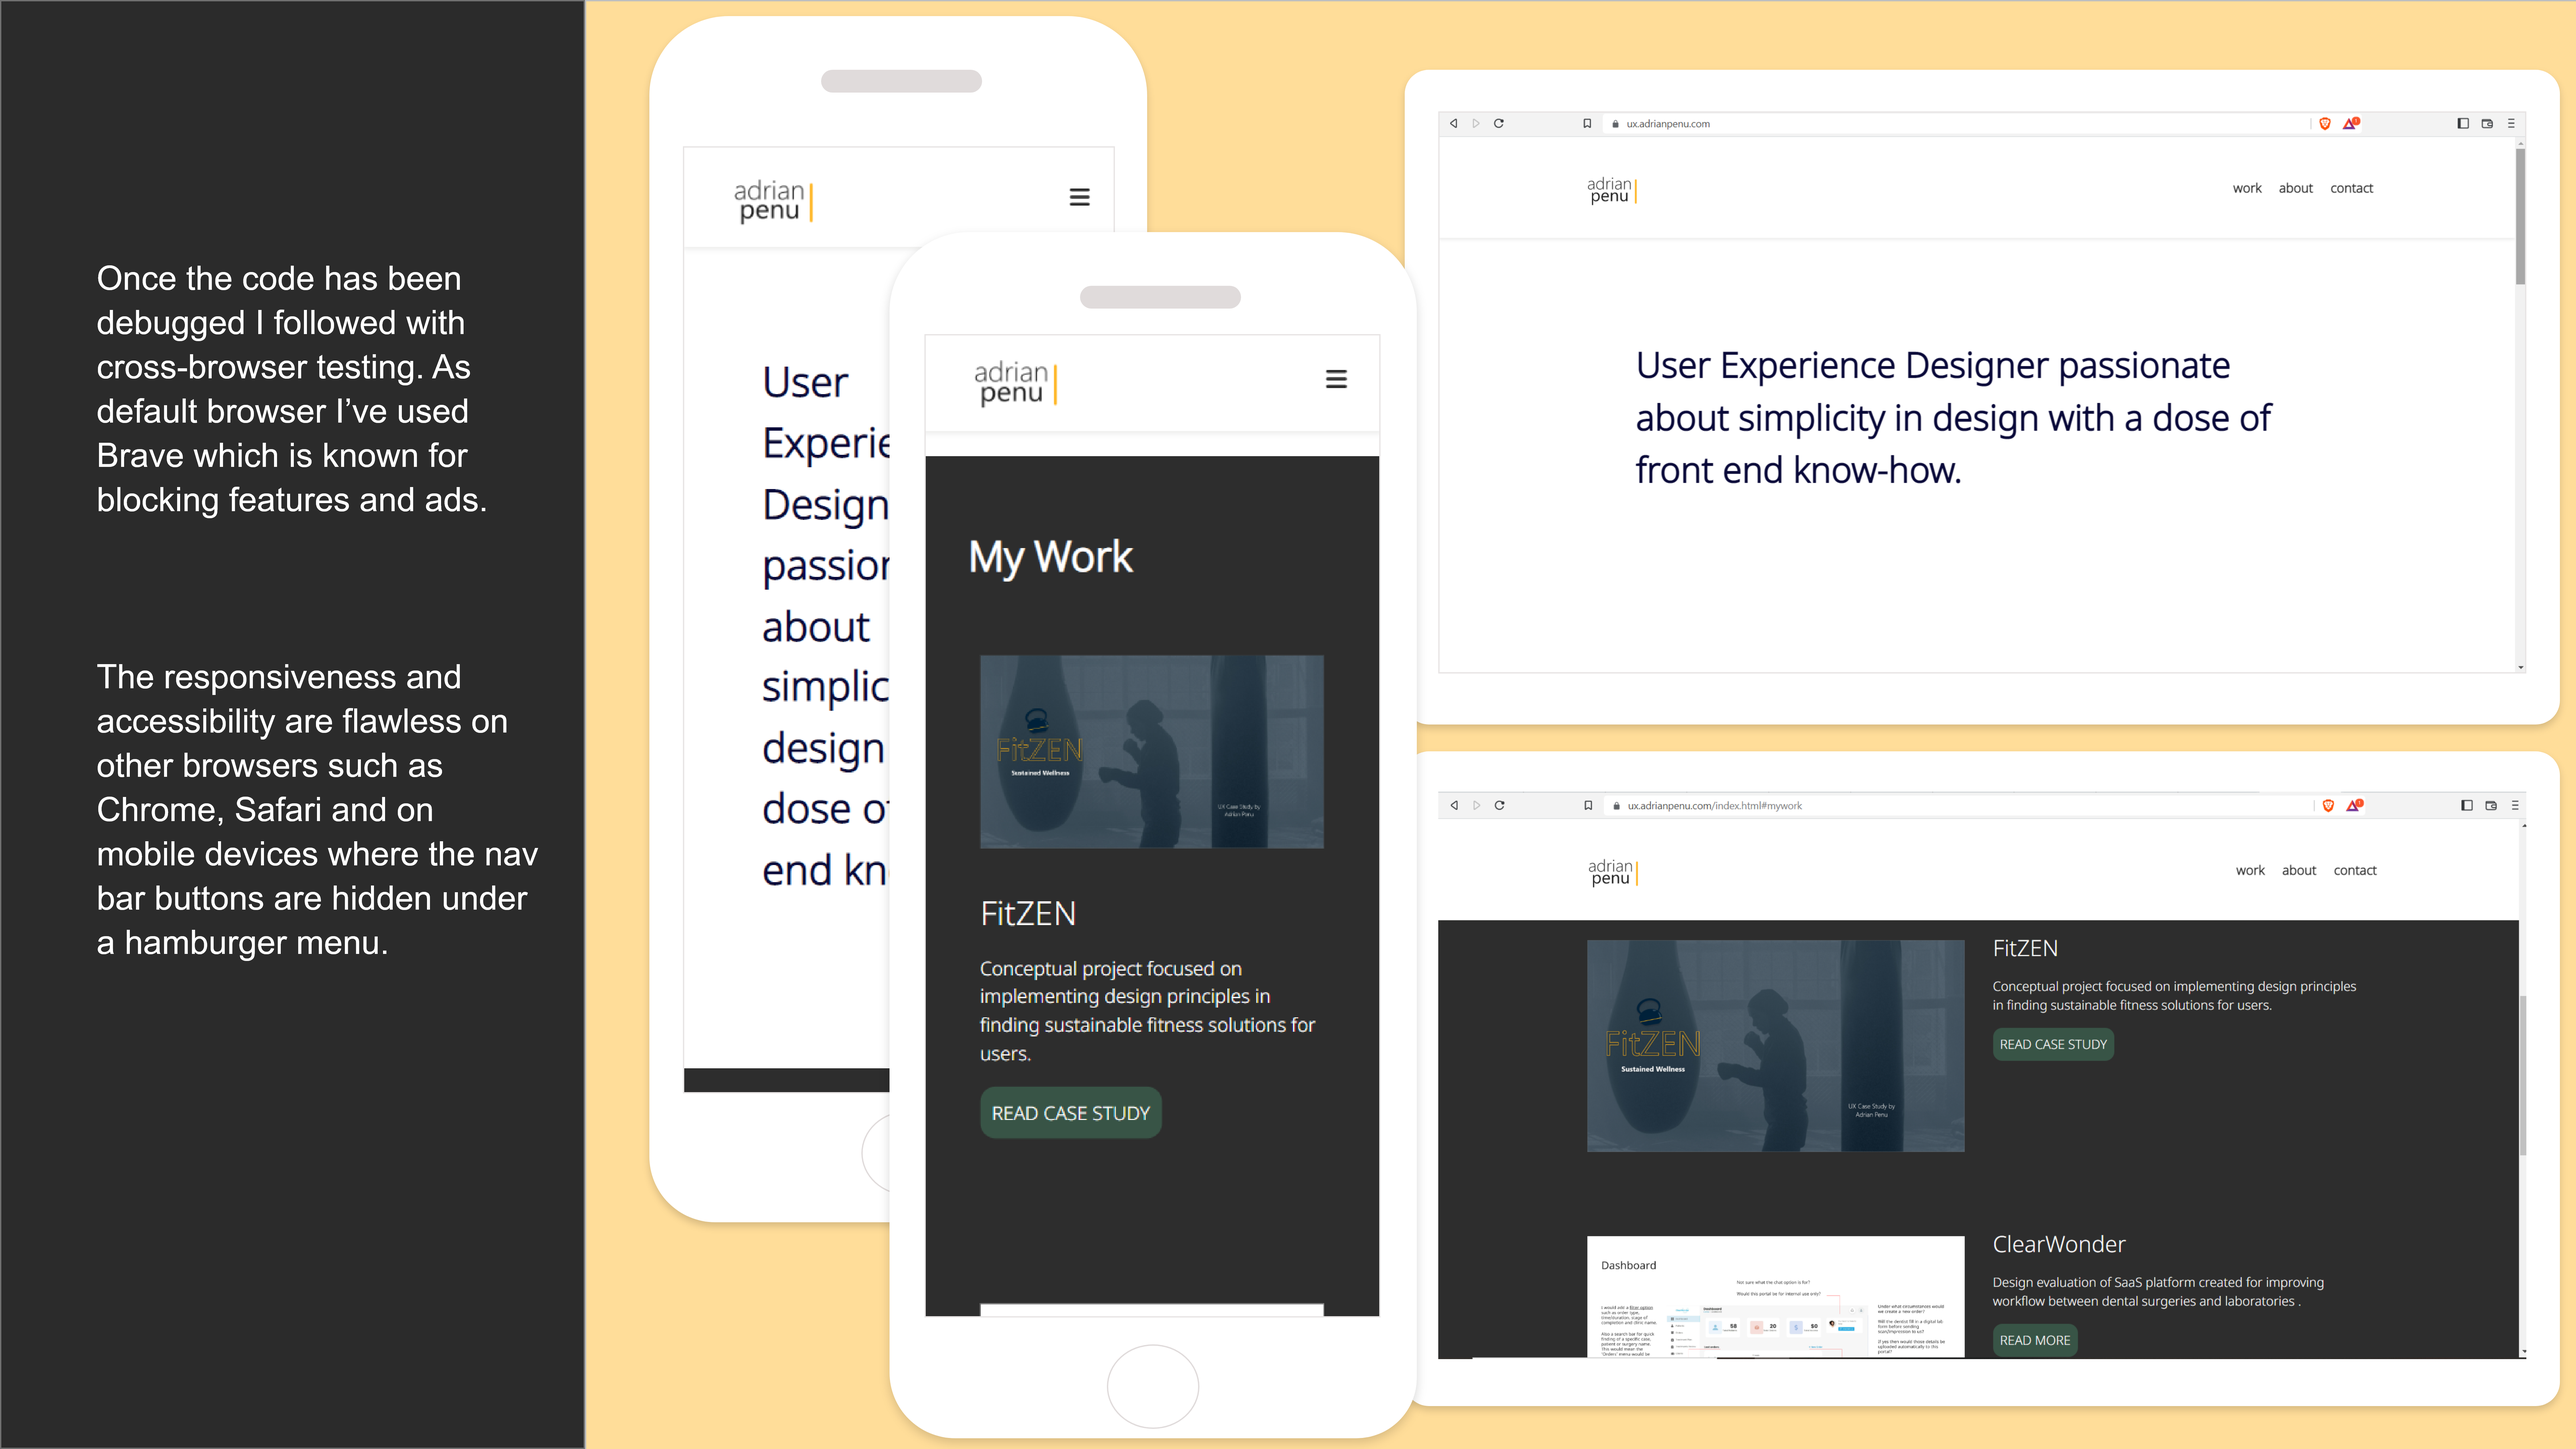
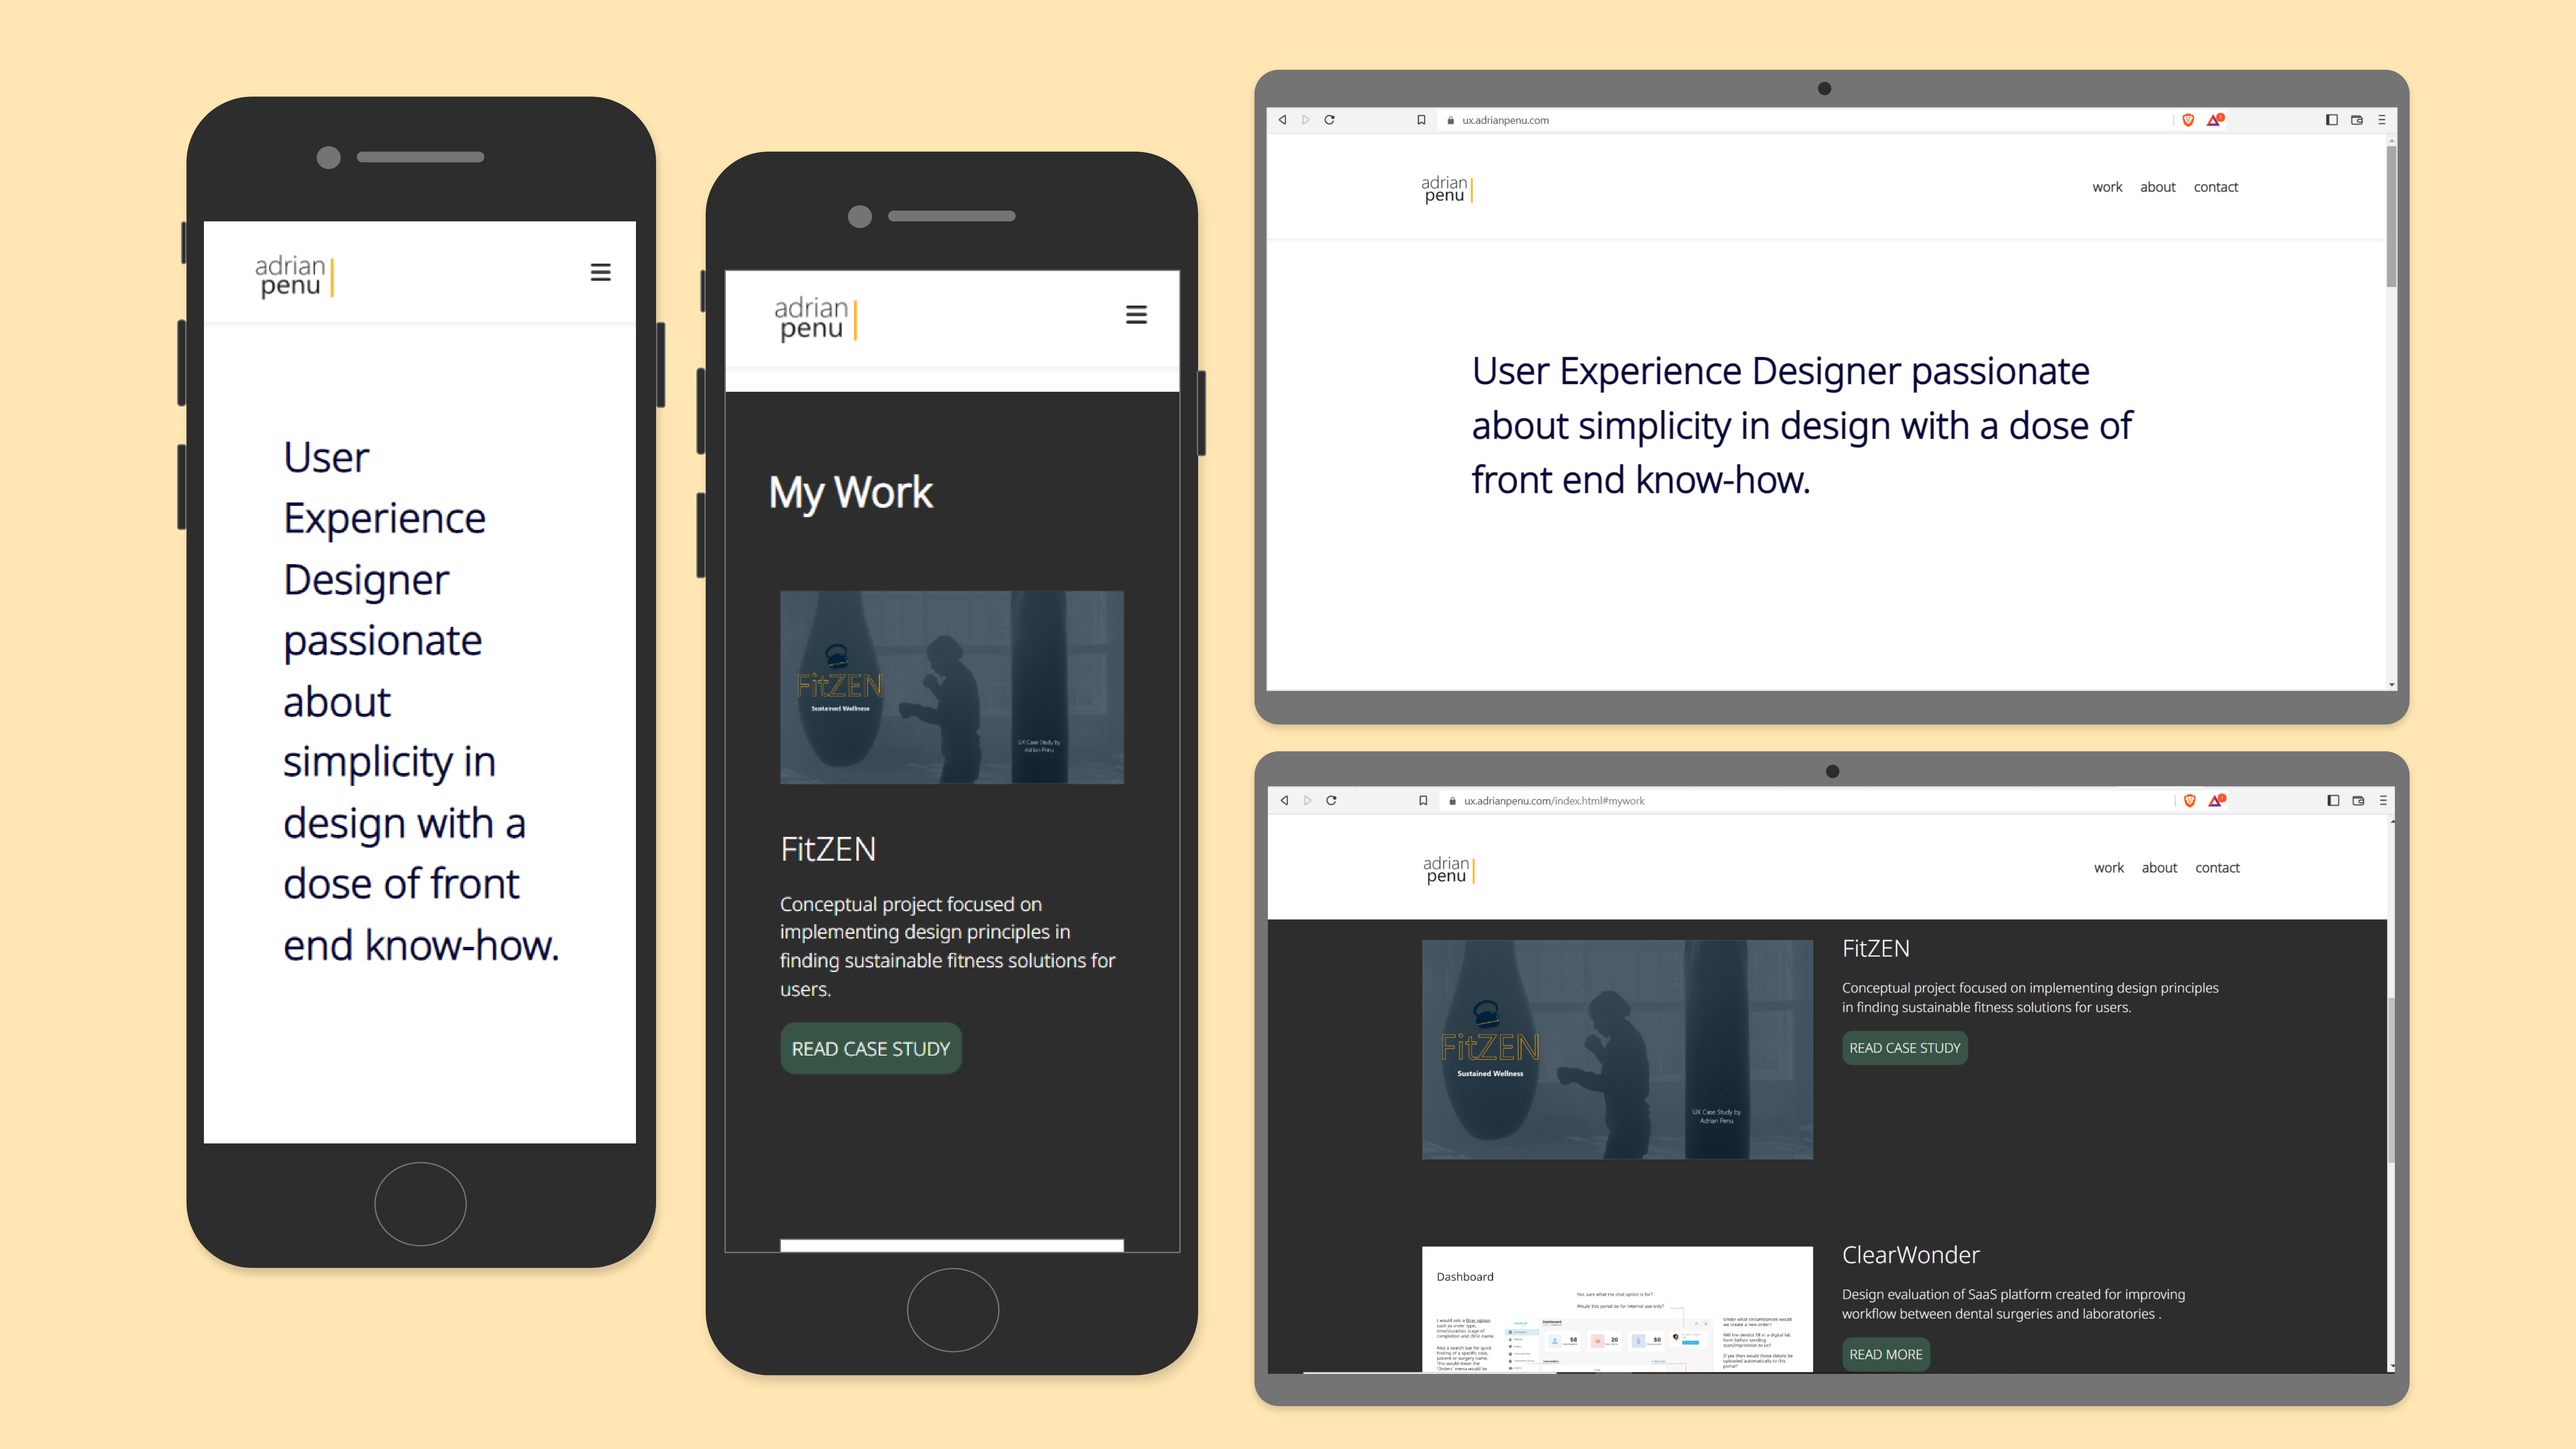
change to font

diff --git a/portfolio_site.html b/portfolio_site.html
@@ -35,10 +35,10 @@
   <main>
     <div id="fitzen">
       <div class="container">
-        <h1> Portfolio Website </h1><br/>
+        <h1> Portfolio Website </h1><br />
         <h4> As part of my qualification as a UX Designer I've chosen to specialise in web development.</h4>
 
-          <h4>This is the story of how I've applied front-end principles in building my UX portfolio site.</h4>
+        <h4>This is the story of how I've applied front-end principles in building my UX portfolio site.</h4>
       </div>
       <picture>
         <source scrset="img\ux_ap_img\ux_ap_desktop.png" media="(max-width:767px)">
@@ -79,9 +79,9 @@
           <p>Gaining competency in front-end development and creating a website that will help me in my career.
           </p>
         </div>
-        <br/>
-        <br/>
-        <br/>
+        <br />
+        <br />
+        <br />
 
         <h3>RESEARCH </h3>
         <h2>Original like everyone else</h2>
@@ -95,14 +95,14 @@
           <p> Achieving this through a strict and logical medium such as coding requires the developer to tap into artistic sensitivities and express them through styling and content.
           </p>
         </div>
-        <br/>
+        <br />
         <picture>
           <source scrset="img\ux_ap_img\pic_2.png" media="(max-width:767px)">
           <img src="img\ux_ap_img\pic_2.png" alt="My Image">
         </picture>
-      <br />
-      <br />
-      <br />
+        <br />
+        <br />
+        <br />
 
         <h3>THE PROCESS</h3>
         <h2>A UX approach</h2>
@@ -146,8 +146,8 @@
           </p><br />
           <p>Adding breakpoints in CSS with the use of media queries created a responsive design with progressive enhancement.
           </p>
-          <br/>
-          <br/>
+          <br />
+          <br />
         </div>
         <div class="flexbox-item-image">
           <picture>
@@ -187,38 +187,38 @@
         <h2>An ongoing process</h2>
         <div class="flexbox-item">
           <p>Usability testing helped me find answers to some of the major concerns regarding the design and general layout.
-          </p><br/>
+          </p><br />
           <p>Intuitive navigation, cognitive load, accessibility and smooth transitions were considered when reiterating the design.
           </p>
 
         </div>
-        </div>
-        <div class="grid-container2">
+      </div>
+      <div class="grid-container2">
         <div class="flexbox-item">
           <picture>
             <source scrset="img\ux_ap_img\pic_9.png" media="(max-width:767px)">
             <img src="img\ux_ap_img\pic_9.png" alt="My Image">
           </picture>
         </div>
-          <div class="flexbox-item">
-            <picture>
-              <source scrset="img\ux_ap_img\pic_10.png" media="(max-width:767px)">
-              <img src="img\ux_ap_img\pic_10.png" alt="My Image">
-            </picture>
-          </div>
-          </div>
+        <div class="flexbox-item">
+          <picture>
+            <source scrset="img\ux_ap_img\pic_10.png" media="(max-width:767px)">
+            <img src="img\ux_ap_img\pic_10.png" alt="My Image">
+          </picture>
+        </div>
+      </div>
 
       <div class="flexbox-container">
-         <div class="flexbox-item">
+        <div class="flexbox-item">
           <p>I tweaked the layout of the wireframes as I felt there was too much emphasis on the profile picture. I’ve also changed the dark colour of header and footer as it felt too constrictive.
             The CTA button background colour was changed to complement the light orange found in the logo and nav bar buttons in their hover state.
-          </p><br/>
+          </p><br />
           <p>A new round of testing would be a viable option.
           </p>
         </div>
-      <br />
-      <br />
-      <br />
+        <br />
+        <br />
+        <br />
 
 
         <h3>TESTING 123</h3>
@@ -245,28 +245,32 @@
       <div class="flexbox-container">
         <div class="flexbox-item">
           <p>After successfully enabling the linters to work by passing the configuration I’ve noticed minor warning which the plugin couldn’t fix itself.
-          </p><br/>
+          </p><br />
           <p>Adding missing 'div' and correcting the uppercase in ‘viewBox’ (svg files) was enough to have zero errors.
-          </p><br/>
+          </p><br />
           <p>What I like about the plugin is that it will notify me about errors on all pages by highlighting them on the left nav bar.
           </p>
         </div>
-       </div>
-          <br/>
+      </div>
+      <blockquote class="pullquote">"Once the code has been debugged I've followed up with cross-browser testing. I've used Brave as default browser which is known for blocking unwanted features and ads.
+      </blockquote>
       <br />
-
+      <br />
       <picture>
         <source scrset="img\ux_ap_img\pic_13.png" media="(max-width:767px)">
         <img src="img\ux_ap_img\pic_13.png" alt="My Image">
       </picture>
-      <br/>
-      <br/>
-      <br/>
-    <div class="flexbox-container">
+      <br />
+
+      <blockquote class="pullquote">"The responsiveness and accesibility are flawless on other browsers such as Chrome, Mozilla and Safari. On mobile devices the nav bar is hidden under a hamburger menu.
+      </blockquote>
+      <br />
+      <br />
+      <div class="flexbox-container">
         <h2>Colour check for accessibility</h2>
         <div class="flexbox-item">
           <p>The features and buttons have constantly been checked during the development stage and then finally user tested.
-          </p><br/>
+          </p><br />
           <p>Having a minimalist style regarding website composition and colour I had to only check the contrast of font and CTA buttons which both passed the test.
           </p>
         </div>
@@ -276,17 +280,15 @@
             <img src="img\ux_ap_img\pic_14.png" alt="My Image">
           </picture>
         </div>
-        <br/>
+        <br />
 
         <h3>VISUAL DESIGN</h3>
         <h2>Component library</h2>
-      </div><br/>
-      <div class="grid-container">
         <div class="flexbox-item-text">
           <p>I’ve created a structured design system to maintain consistency on all screens.
-          </p><br />
+          </p>
           <p>A design language system makes it possible to ensure that the styling is cohesive and improves user experience.
-          </p><br />
+          </p>
         </div>
         <div class="flexbox-item-image">
           <picture>
@@ -295,7 +297,6 @@
           </picture>
         </div>
       </div>
-      <br />
       <br />
       <br />
 
@@ -326,7 +327,7 @@
 
 
       </div>
-      </div>
+    </div>
 
   </main>
 

diff --git a/css/style.css b/css/style.css
@@ -8,7 +8,7 @@ body {
   font-family: BebasNeueRegular, Helvetica Neue, arial, sans-;
   font-size: 16px;
   font-weight: 300;
-  line-height: 1.5;
+  line-height: 1.6;
   color: #1f1f1f;
   margin: 0;
 }
@@ -27,6 +27,7 @@ h4 {
 }
 
 h1 {
+  font-family: BebasNeueRegular, Helvetica Neue, arial, sans-serif;
   font-size: 4.875rem;
   font-weight: normal;
   line-height: 5.625rem;
@@ -43,10 +44,10 @@ h3 {
 }
 
 h4 {
-  font-size: 1.75em;
-  font-weight: 500;
+  font-size: 1.25em;
+  font-weight: 200;
   margin-top: 10px;
-  padding: 0 30px;
+  padding: 0;
 }
 
 img {
@@ -161,6 +162,10 @@ header {
 .grid-container-121 {
   background-color: #2b2b2b;
   padding: 0 30px 10px;
+}
+
+.flexbox-item h2 {
+  font-family: BebasNeueRegular, Helvetica Neue, arial, sans-serif;
 }
 
 .flexbox-item5 {
@@ -337,6 +342,7 @@ nav > ul > li > a {
 }
 
 #fitzen {
+  font-family: CallunaLghtRegular, Georgia, serif;
   margin: 0;
   padding: 100px 0 0;
   display: inline-block;
@@ -454,17 +460,16 @@ nav > ul {
 }
 
 blockquote.pullquote {
-  max-width: 800px;
   text-align: center;
   color: #b51a17;
   font-family: CallunaRegular, Georgia, serif;
-  font-size: 2.125rem;
-  margin-top: 4.5rem;
+  font-size: 1.75rem;
+  margin-top: 2.5rem;
   margin-bottom: 1.25rem;
   margin-left: auto;
   margin-right: auto;
-  padding-left: 0;
-  line-height: 3.375rem;
+  padding: 0 30px;
+  line-height: 3rem;
 }
 
 blockquote.pullquote::before,
@@ -505,6 +510,7 @@ blockquote.pullquote::after {
   }
 
   .flexbox-container h2 {
+    font-family: BebasNeueRegular, Helvetica Neue, arial, sans-serif;
     margin: 0;
     font-size: 2.25em;
     font-weight: 900;
@@ -585,6 +591,10 @@ blockquote.pullquote::after {
 
   #fitzen .flexbox-title {
     text-align: left;
+  }
+
+  #fitzen p {
+    font-size: 20px;
   }
 
   .flexbox-item3 {
@@ -776,6 +786,20 @@ blockquote.pullquote::after {
   h4 {
     padding: 0 300px;
   }
+
+  blockquote.pullquote {
+    max-width: 800px;
+    text-align: center;
+    color: #b51a17;
+    font-family: CallunaRegular, Georgia, serif;
+    font-size: 2.125rem;
+    margin-top: 4.5rem;
+    margin-bottom: 1.25rem;
+    margin-left: auto;
+    margin-right: auto;
+    padding-left: 0;
+    line-height: 3.375rem;
+  }
 }
 
 @media only screen and (max-width: 640px) {
@@ -810,6 +834,18 @@ blockquote.pullquote::after {
     padding: 50px 20px;
   }
 
+  .flexbox-container h2 {
+    font-family: BebasNeueRegular, Helvetica Neue, arial, sans-serif;
+    margin-top: 10px;
+    font-weight: 800;
+  }
+
+  .flexbox-container h3 {
+    font-family: BebasNeueRegular, Helvetica Neue, arial, sans-serif;
+    font-size: 1.25rem;
+    margin-bottom: 0;
+  }
+
   .row {
     margin: 0;
     padding: 60px 20px;
@@ -817,9 +853,5 @@ blockquote.pullquote::after {
 
   #contact p {
     padding: 0 30px;
-  }
-
-  #fitzen h1 {
-    font-size: 35px;
   }
 }

diff --git a/fitzen.html b/fitzen.html
@@ -60,11 +60,12 @@
           <img src="img\fitzen_img\expo.png" alt="My Image">
         </picture>
         <br />
+        <br />
         <h2>Context</h2>
         <div class="flexbox-item">
           <p>With over 8000 fitness apps available on the market it can cause users to feel overwhelmed by the multitude of choice.
             With more fitness oriented people than ever it’s crucial to create a product that it’s based around their personality,
-            expectations and desires. According to this <a href="https://comparecamp.com/fitness-statistics/" target="_blank">comparecamp.com</a> the main
+            expectations and desires. According to <a href="https://comparecamp.com/fitness-statistics/" target="_blank">comparecamp.com</a> the main
             challenge is to keep users committed and motivated to achieve their goals.</p>
         </div>
         <br />
@@ -161,9 +162,7 @@
         </div>
         <br />
       </div>
-      <blockquote class="pullquote">"I started the research by doing surveys to get a general understanding of the direction of my project followed by qualitative insights for the second stage of the research process, user interviews.<br /> I think
-        that these methods complement each other and can be good sources in gaining different perspectives on user’s
-        needs and motivations.
+      <blockquote class="pullquote">"I started the research by doing surveys to get a general understanding of the direction of my project followed by qualitative insights for the second stage of the research process, user interviews.
         <br /><br />
         Finally I’ve used affinity mapping to help me organise the information based on correlation and relevance."
       </blockquote>
@@ -223,10 +222,10 @@
           <h2>Progress tracker that would raise the competitive levels and engage the user.</h2>
         </div>
         <div class="flexbox-item">
-          <h2>Customised training regime based on their goals but also to have the freedom of selecting different routines depending on the user’s mood.</h2>
+          <h2>Customised training regime based on their goals.</h2>
         </div>
         <div class="flexbox-item">
-          <h2>Medical data stored was greeted with skepticism due to fear of the information being leaked or misused.</h2>
+          <h2>Storing medical data received with skepticism.</h2>
         </div>
         <div class="flexbox-item">
           <h2>Recommending healthy, fun and easy meals.</h2>
